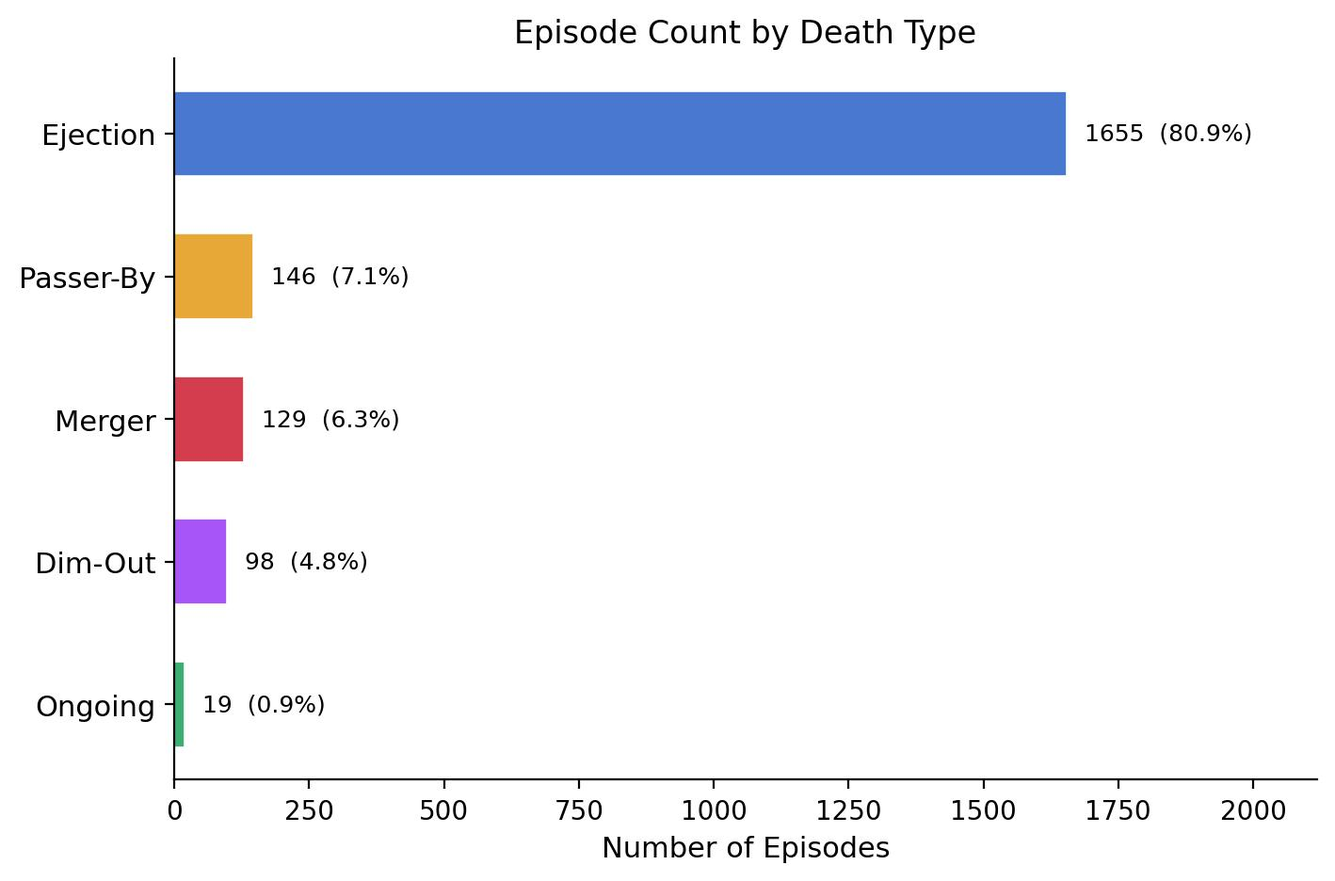
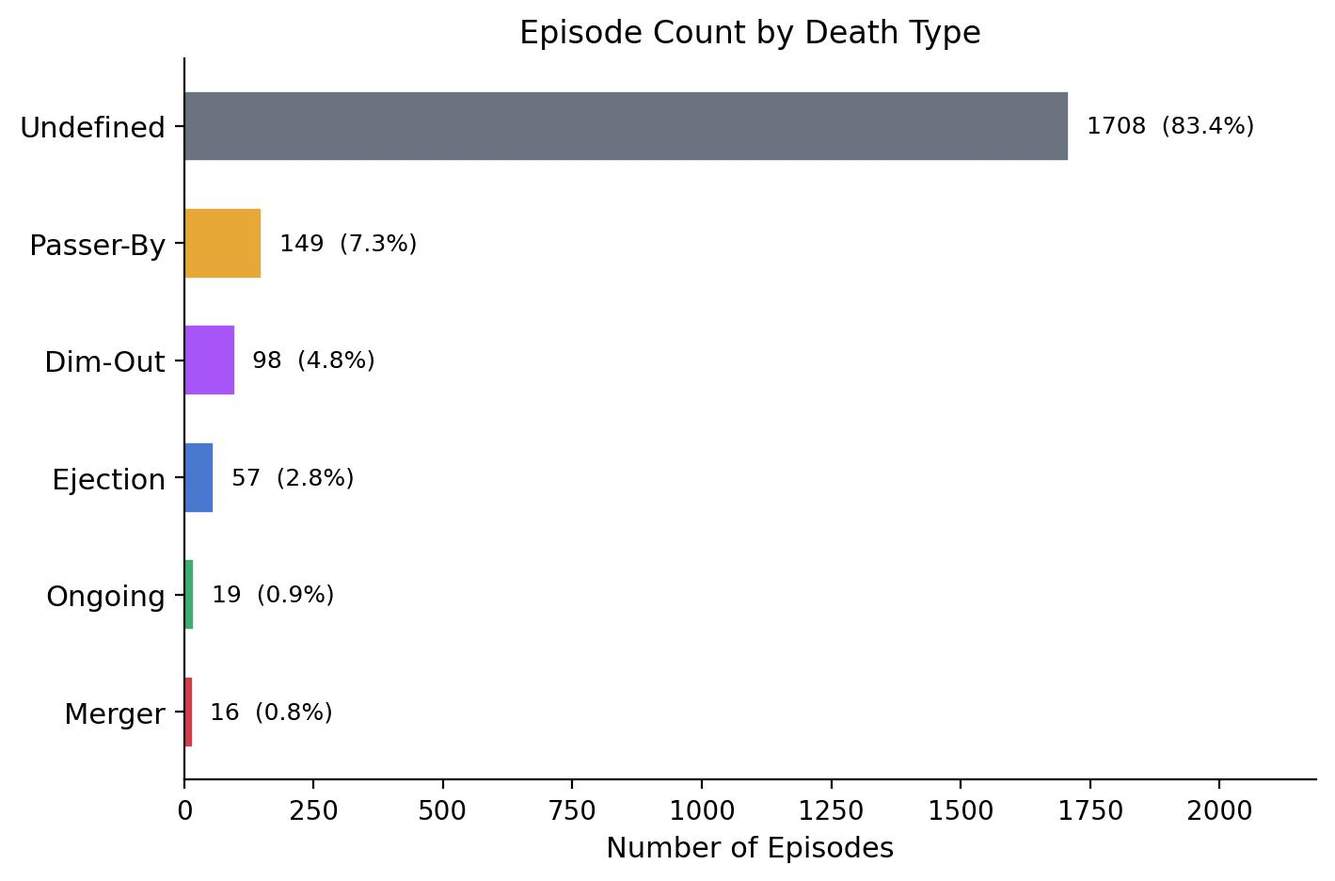
updates

diff --git a/main.tex b/main.tex
@@ -65,7 +65,7 @@ natbib=true
 \maketitle
 
 \begin{abstract}
-Hierarchical galaxy formation naturally predicts the existence of systems hosting multiple supermassive black holes (SMBHs), and when gas is available, such systems may manifest as multiple active galactic nuclei (AGN). While dual AGNs have been studied extensively in both observations and simulations, triple AGN systems remain relatively unexplored, despite their importance for further understanding things like SMBH dynamics and merger-driven accretion. Recent observational discoveries of nearby kpc-scale triple AGNs have highlighted the need for theoretical predictions that place these rare systems in a broader cosmological context. In this work, we investigate the properties of triple AGN systems in the Romulus25 cosmological hydrodynamical simulation. Romulus25 uniquely incorporates a physically motivated treatment of unresolved dynamical friction, enabling SMBHs to remain coupled to their host galaxies and to interact down to sub-kiloparsec scales. Building on previous analyses of dual AGNs in Romulus, we identify candidate triple AGN systems using AGN bolometric luminosity and spatial proximity criteria motivated by observations. We examine their redshift evolution, SMBH masses and luminosities, separations, host halos, lifetimes, and fates, test how the census depends on the luminosity threshold and search radius, and repeat the selection in projection with a cylinder of $30\,\mathrm{kpc}$ radius and $\pm 500\,\mathrm{km\,s^{-1}}$. Above $L_\mathrm{bol} = 10^{40}\,\mathrm{erg\,s^{-1}}$ we find 3,266 triple AGN system-snapshot instances from 1,397 unique systems between $z \approx 0.06$ and $z = 3$, with counts per snapshot rising by a factor of about three toward high redshift, driven mainly by the rising fraction of SMBHs that are accreting. Members typically lie $\sim 3\,\mathrm{kpc}$ apart, and the brightest member carries a median 88\% of the system luminosity. Most triple AGN episodes end because one member falls below the luminosity threshold while all three SMBHs remain together, usually through a drop to well below the threshold, so that only 5\% meet our Dim-Out criterion of a member falling just below it while the other two remain a dual AGN; only 6\% end in a merger and 3\% with a member leaving the $30\,\mathrm{kpc}$ neighbourhood. In projection, 82\% of selected triples are genuine three-dimensional triples and 89\% of genuine triples are recovered. Narrowing the velocity window increases contamination, whereas reducing the aperture radius to $20\,\mathrm{kpc}$ improves both purity and completeness. Radiative transfer of five simulated analogues of the triple merger candidate UGC\,2369S shows that dust absorbs between 24\% and 90\% of their starlight. By providing a systematic census of triple AGNs in a cosmological simulation, this study aims to establish a theoretical baseline for interpreting current observations and to guide future searches for multi-AGN systems.
+Hierarchical galaxy formation naturally predicts the existence of systems hosting multiple supermassive black holes (SMBHs), and when gas is available, such systems may manifest as multiple active galactic nuclei (AGN). While dual AGNs have been studied extensively in both observations and simulations, triple AGN systems remain relatively unexplored, despite their importance for further understanding things like SMBH dynamics and merger-driven accretion. Recent observational discoveries of nearby kpc-scale triple AGNs have highlighted the need for theoretical predictions that place these rare systems in a broader cosmological context. In this work, we investigate the properties of triple AGN systems in the Romulus25 cosmological hydrodynamical simulation. Romulus25 uniquely incorporates a physically motivated treatment of unresolved dynamical friction, enabling SMBHs to remain coupled to their host galaxies and to interact down to sub-kiloparsec scales. Building on previous analyses of dual AGNs in Romulus, we identify candidate triple AGN systems using AGN bolometric luminosity and spatial proximity criteria motivated by observations. We examine their redshift evolution, SMBH masses and luminosities, separations, host halos, lifetimes, and fates, test how the census depends on the luminosity threshold and search radius, and repeat the selection in projection with a cylinder of $30\,\mathrm{kpc}$ radius and $\pm 500\,\mathrm{km\,s^{-1}}$. Above $L_\mathrm{bol} = 10^{40}\,\mathrm{erg\,s^{-1}}$ we find 3,266 triple AGN system-snapshot instances from 1,397 unique systems between $z \approx 0.06$ and $z = 3$, with counts per snapshot rising by a factor of about three toward high redshift, driven mainly by the rising fraction of SMBHs that are accreting. Members typically lie $\sim 3\,\mathrm{kpc}$ apart, and the brightest member carries a median 88\% of the system luminosity. Most triple AGN episodes end because one member falls below the luminosity threshold while all three SMBHs remain together, usually through a drop to well below the threshold, so that only 5\% meet our Dim-Out criterion of a member falling just below it while the other two remain a dual AGN; fewer than 1\% end in a confirmed SMBH merger and 3\% in the ejection of a member from the $30\,\mathrm{kpc}$ neighbourhood. In projection, 82\% of selected triples are genuine three-dimensional triples and 89\% of genuine triples are recovered. Narrowing the velocity window increases contamination, whereas reducing the aperture radius to $20\,\mathrm{kpc}$ improves both purity and completeness. Radiative transfer of five simulated analogues of the triple merger candidate UGC\,2369S shows that dust absorbs between 24\% and 90\% of their starlight. By providing a systematic census of triple AGNs in a cosmological simulation, this study aims to establish a theoretical baseline for interpreting current observations and to guide future searches for multi-AGN systems.
 
 \end{abstract}
 \vspace{1em} 
@@ -142,7 +142,7 @@ In this paper, we present the first systematic census of triple AGN systems in t
 
 For each identified system we characterise the SMBH masses, bolometric luminosities, pairwise separations, host halo masses, and system lifetimes of all three members. We classify the Host (most massive), Neighbour~1 (N1), and Neighbour~2 (N2) by decreasing SMBH mass. We examine how these properties evolve with redshift and depend on the choice of luminosity threshold and separation cut.
 
-The key findings can be summarised as follows. Triple AGN systems are a natural and recurring product of hierarchical galaxy assembly in Romulus25, with their number density rising steadily from $z = 0$ to $z \approx 3$, mirroring the global rise in AGN activity. They are physically compact, with median pairwise separations of 2.9, 3.2, and 3.8\,kpc for the Host--N1, Host--N2, and N1--N2 pairs respectively, considerably more compact than the currently confirmed observational sample, implying a large population inaccessible to existing surveys. The SMBH mass distribution is asymmetric. The median Host is $\sim 3$ and $\sim 6$ times more massive than N1 and N2 respectively, a contrast that grows to one to two orders of magnitude in halos above $10^{12}\,M_\odot$, while N1 and N2 are drawn from a similar near-seed-mass population. This demonstrates that triple AGN formation does not require (and may in some cases \textit{precede}) significant growth of the secondary and tertiary SMBHs. The majority (61\%) of unique triple AGN systems are single-snapshot detections, reflecting the transient character of low-luminosity triple activity, while the multi-snapshot population has a median span of $1.44\,\mathrm{Gyr}$ from first to last detection and a long tail extending to $\sim 11\,\mathrm{Gyr}$, although these systems are typically detected as triples in only about a third of the snapshots they span. Most triple AGN episodes end when one member falls below the luminosity threshold while all three SMBHs remain within $30\,\mathrm{kpc}$, usually by a drop to well below it; a Dim-Out, in which a member falls to just below the threshold while the other two remain a dual AGN, ends 5\% of episodes, a merger 6\%, and the departure of a member only 3\%. In most systems a single nucleus dominates the light, carrying a median 88\% of the total. Selection in projection recovers 89\% of genuine triples with a purity of 82\%, and a $20\,\mathrm{kpc}$ aperture improves on both.
+The key findings can be summarised as follows. Triple AGN systems are a natural and recurring product of hierarchical galaxy assembly in Romulus25, with their number density rising steadily from $z = 0$ to $z \approx 3$, mirroring the global rise in AGN activity. They are physically compact, with median pairwise separations of 2.9, 3.2, and 3.8\,kpc for the Host--N1, Host--N2, and N1--N2 pairs respectively, considerably more compact than the currently confirmed observational sample, implying a large population inaccessible to existing surveys. The SMBH mass distribution is asymmetric. The median Host is $\sim 3$ and $\sim 6$ times more massive than N1 and N2 respectively, a contrast that grows to one to two orders of magnitude in halos above $10^{12}\,M_\odot$, while N1 and N2 are drawn from a similar near-seed-mass population. This demonstrates that triple AGN formation does not require (and may in some cases \textit{precede}) significant growth of the secondary and tertiary SMBHs. The majority (61\%) of unique triple AGN systems are single-snapshot detections, reflecting the transient character of low-luminosity triple activity, while the multi-snapshot population has a median span of $1.44\,\mathrm{Gyr}$ from first to last detection and a long tail extending to $\sim 11\,\mathrm{Gyr}$, although these systems are typically detected as triples in only about a third of the snapshots they span. Most triple AGN episodes end when one member falls below the luminosity threshold while all three SMBHs remain within $30\,\mathrm{kpc}$, usually by a drop to well below it; a Dim-Out, in which a member falls to just below the threshold while the other two remain a dual AGN, ends 5\% of episodes, a confirmed merger fewer than 1\%, and the ejection of a member only 3\%. In most systems a single nucleus dominates the light, carrying a median 88\% of the total. Selection in projection recovers 89\% of genuine triples with a purity of 82\%, and a $20\,\mathrm{kpc}$ aperture improves on both.
 
 The paper is organized as follows. Section~\ref{sec:methods} describes the Romulus25 simulation, our AGN selection criteria, the triple AGN identification algorithm, and the methodology used to compare the simulated population with observations. Section~\ref{sec:results} presents all results, including the redshift evolution of the triple AGN population (Sections~\ref{subsec:agn_population}--\ref{subsec:frequency}), pairwise separation distributions (Sections~\ref{subsec:separations}--\ref{subsec:sep_halo}), SMBH mass and luminosity properties (Sections~\ref{subsec:bhmass_halo}--\ref{subsec:ratios}), system lifetimes (Section~\ref{subsec:lifetimes}), a case study of one of the longest-lived systems in the simulation (Section~\ref{subsec:case_study}), system fates (Section~\ref{subsec:fates}), the luminosity-independent parent population (Section~\ref{subsec:parent_population}), the dominance of the brightest member (Section~\ref{subsec:brightest_share}), the selection of triple AGN in projection (Sections~\ref{subsec:projected_vs_physical}--\ref{subsec:selection_opt}), and dust attenuation in simulated analogues of UGC\,2369S (Section~\ref{subsec:dust}). Throughout, we adopt the Romulus25 cosmology: $\Omega_m = 0.309$, $\Omega_\Lambda = 0.691$, $H_0 = 67.8\,\mathrm{km\,s^{-1}\,Mpc^{-1}}$. All separations are quoted in physical kiloparsecs and all masses in solar units $M_\odot$.
 
@@ -653,14 +653,14 @@ These gas column density maps represent individual frames from longer time-serie
 \begin{figure}[H]
     \centering
     \includegraphics[width=\columnwidth]{plot_1.jpeg}
-    \caption{Terminal fate classification of all 2,047 triple AGN episodes, where an episode is a contiguous run of snapshots over which the same three SMBHs satisfy the triple AGN selection criteria, with gaps of two snapshots or fewer bridged. Fates are assigned at the first usable snapshot after the episode, in the order Ongoing (the episode reaches the final catalogued snapshot), Merger (one member has coalesced with another SMBH), Dim-Out (two members remain a dual AGN while the third has dropped to just below the threshold, $10^{39.7} \leq L_\mathrm{bol} < 10^{40}\,\mathrm{erg\,s^{-1}}$), Passer-By (the same two SMBHs are a dual AGN immediately before and after the episode), and Ejection (all remaining episodes). Ejection accounts for 80.9\% of episodes, Passer-By for 7.1\%, Merger for 6.3\%, Dim-Out for 4.8\%, and Ongoing for 0.9\%.}
+    \caption{Terminal fate classification of all 2,047 triple AGN episodes, where an episode is a contiguous run of snapshots over which the same three SMBHs satisfy the triple AGN selection criteria, with gaps of two snapshots or fewer bridged. Fates are assigned at the first usable snapshot after the episode, in the order Ongoing (the episode reaches the final catalogued snapshot), Merger (a member has vanished, having been within $0.7\,\mathrm{kpc}$ of another member), Dim-Out (two members remain a dual AGN while the third has dropped to just below the threshold, $10^{39.7} \leq L_\mathrm{bol} < 10^{40}\,\mathrm{erg\,s^{-1}}$), Passer-By (the same two SMBHs are a dual AGN immediately before and after the episode), Ejection (all three SMBHs still exist but a member has left the $30\,\mathrm{kpc}$ configuration), and Undefined (all remaining episodes). Undefined accounts for 83.4\% of episodes, Passer-By for 7.3\%, Dim-Out for 4.8\%, Ejection for 2.8\%, Ongoing for 0.9\%, and Merger for 0.8\%.}
     \label{fig:fates}
 \end{figure}
 
 \begin{figure*}
     \centering
     \includegraphics[width=\textwidth]{plot_rs.jpeg}
-    \caption{Redshift evolution of triple AGN episode fates. \textit{Left:} Number of episodes in each of ten redshift bins spanning $z = 0$ to $z = 3$, stacked and coloured by terminal fate as classified in Section~\ref{subsec:fates}. \textit{Right:} The same data as the fraction of episodes in each bin. Ejection dominates at all redshifts (70--88\%). Passer-By (3--11\%), Merger (5--10\%), and Dim-Out (2--8\%) show no clear redshift trend. The rise in the Ongoing fraction in the lowest-redshift bin is an artefact of the catalogue ending at $z \approx 0.06$.}
+    \caption{Redshift evolution of triple AGN episode fates. \textit{Left:} Number of episodes in each of ten redshift bins spanning $z = 0$ to $z = 3$, stacked and coloured by terminal fate as classified in Section~\ref{subsec:fates}. \textit{Right:} The same data as the fraction of episodes in each bin. Undefined dominates at all redshifts (76--92\%). Passer-By (3--12\%), Dim-Out (2--8\%), Ejection (1--5\%), and Merger (0--3\%) show no clear redshift trend. The rise in the Ongoing fraction in the lowest-redshift bin is an artefact of the catalogue ending at $z \approx 0.06$.}
     \label{fig:fates_z}
 \end{figure*}
 
@@ -668,51 +668,51 @@ The lifetime analysis presented in Section~\ref{subsec:lifetimes} characterised 
 
 Because a single physical configuration of three SMBHs may cease to qualify and later qualify again, the total number of episodes (2,047) exceeds the number of unique triple AGN systems identified in Section~\ref{subsec:lifetimes} (1,397). The difference of 650 episodes represents re-entry events in which the same three SMBHs failed the triple AGN selection criteria for at least three consecutive snapshots before qualifying again. Each episode carries its own terminal fate and is classified independently.
 
-For each episode we determine its terminal fate at the first usable snapshot following its final detection, applying the following classification in priority order.
+For each episode we determine its terminal fate at the first usable snapshot following its final detection, applying the following classification in priority order. Luminosities are taken from an AGN catalogue with a floor of $10^{39.7}\,\mathrm{erg\,s^{-1}}$, or computed from the accretion rate in the \textsc{Tangos} database with the same floor where that catalogue is unavailable. Three-dimensional separations are taken from the projected master catalogues of Section~\ref{subsec:projected_selection}, pooled over the three viewing axes.
 \begin{enumerate}
     \item \textbf{Ongoing:} the episode is still active at the final catalogued snapshot, so that its fate lies beyond the redshift range probed by this study.
-    \item \textbf{Merger:} one of the three SMBHs is absent from the black hole catalogue at the following snapshot, indicating that it has coalesced with another black hole. In all 129 such episodes the missing SMBH never reappears in any later snapshot.
-    \item \textbf{Dim-Out:} a member drops just below the detection threshold while the other two remain an active pair. Two conditions must both hold at the following snapshot. First, two of the three SMBHs form a dual AGN in the dual catalogue of Section~\ref{subsec:derived}, that is, they are linked within $30\,\mathrm{kpc}$ with no further AGN attached. Second, the third SMBH is still accreting but below the triple threshold, with $10^{39.7} \leq L_\mathrm{bol} < 10^{40}\,\mathrm{erg\,s^{-1}}$. Luminosities are taken from an AGN catalogue with a floor of $10^{39.7}\,\mathrm{erg\,s^{-1}}$, or computed from the accretion rate in the \textsc{Tangos} database with the same floor where that catalogue is unavailable.
+    \item \textbf{Merger:} one of the three SMBHs is absent from the black hole catalogue at the following snapshot, and at the final snapshot of the episode it lay within $0.7\,\mathrm{kpc}$ of another member, the separation below which Romulus25 merges SMBHs (Section~\ref{subsubsec:dynamics}). In Romulus25 a merged SMBH disappears permanently, and none of the vanished SMBHs reappears in any later snapshot.
+    \item \textbf{Dim-Out:} a member drops just below the detection threshold while the other two remain an active pair. Two conditions must both hold at the following snapshot. First, two of the three SMBHs form a dual AGN in the dual catalogue of Section~\ref{subsec:derived}, that is, they are linked within $30\,\mathrm{kpc}$ with no further AGN attached. Second, the third SMBH is still accreting but below the triple threshold, with $10^{39.7} \leq L_\mathrm{bol} < 10^{40}\,\mathrm{erg\,s^{-1}}$.
     \item \textbf{Passer-By:} the same two SMBHs were an active dual AGN in the snapshot immediately preceding the episode and remain an active dual in the snapshot immediately following it, so that the dual outlasted the triple.
-    \item \textbf{Ejection:} all remaining episodes, in which all three SMBHs survive but none of the above conditions is met.
+    \item \textbf{Ejection:} all three SMBHs still exist at the following snapshot, but a member has left the system: no member lies within $30\,\mathrm{kpc}$ of both others, so the configuration required by the triple selection is broken.
+    \item \textbf{Undefined:} all remaining episodes.
 \end{enumerate}
 A residual Unknown category is reserved for cases in which the black hole catalogue for the following snapshot is unavailable; no episodes in our census fell into this category.
 
-Figure~\ref{fig:fates} shows the resulting distribution of terminal fates. Ejection is the most common, ending 1,655 of the 2,047 episodes (80.9\%). Passer-By and Merger episodes account for 146 (7.1\%) and 129 (6.3\%), Dim-Out for 98 (4.8\%), occurring at least once in 93 of the 1,397 unique systems (6.7\%), and 19 episodes (0.9\%) are Ongoing. The median luminosity of the dimmed member at the following snapshot is $7.3 \times 10^{39}\,\mathrm{erg\,s^{-1}}$. The member that dims out is almost always one of the companions (Figure~\ref{fig:merger_roles}): Neighbour~2 in 65 episodes (66\%), Neighbour~1 in 31 (32\%), and the Host in only 2.
+Figure~\ref{fig:fates} shows the resulting distribution of terminal fates. Undefined is by far the most common, ending 1,708 of the 2,047 episodes (83.4\%). Passer-By accounts for 149 episodes (7.3\%), Dim-Out for 98 (4.8\%), occurring at least once in 93 of the 1,397 unique systems, and Ejection for 57 (2.8\%). The rarest fates are Ongoing, with 19 episodes (0.9\%), and Merger, with 16 (0.8\%). In 53 of the 57 Ejections, two members remain within $30\,\mathrm{kpc}$ of each other while the third has left, and in the remaining 4 all three members have separated. The median luminosity of the dimmed member in Dim-Out episodes is $7.3 \times 10^{39}\,\mathrm{erg\,s^{-1}}$, and the member that dims out is almost always one of the companions (Figure~\ref{fig:merger_roles}): Neighbour~2 in 65 episodes (66\%), Neighbour~1 in 31 (32\%), and the Host in only 2.
 
-Despite its name, the Ejection class rarely involves a member leaving the system. Table~\ref{tab:end_states} divides it according to the state of the three SMBHs at the following snapshot, using their luminosities and their three-dimensional separations from the projected master catalogues of Section~\ref{subsec:projected_selection}, pooled over the three viewing axes. In 1,208 of the 1,655 Ejection episodes (73\%), the three SMBHs are still together but at least one member has fallen below the threshold. These do not meet the Dim-Out criteria, in most cases because the member has dropped below $10^{39.7}\,\mathrm{erg\,s^{-1}}$ rather than to just below the threshold; a typical member that switches off falls by two orders of magnitude between snapshots. In a further 384 episodes (23\%), all three members remain above the threshold and in the same configuration, but an additional AGN lies within $30\,\mathrm{kpc}$ of at least one member, so that the system no longer has exactly two AGN neighbours. Only 57 episodes (3\%) end with a member beyond $30\,\mathrm{kpc}$, the case the label was intended to describe. Similarly, 138 of the 146 Passer-By episodes end with the third member below the threshold rather than departed. Over all episodes, a member falls below the threshold while the SMBHs remain together in 1,444 cases (70.5\%), of which 98 meet the Dim-Out criteria, whereas the departure of a member accounts for only 65 (3.2\%). We retain the Ejection label for continuity. The state is measured only at the following snapshot, a median of 143\,Myr later, so excursions between snapshots are not captured.
+Table~\ref{tab:end_states} divides the Undefined class according to the state of the three SMBHs at the following snapshot. In 1,208 of the 1,708 Undefined episodes (71\%), the three SMBHs are still together but at least one member has fallen below the threshold without meeting the Dim-Out criteria, in most cases because it has dropped below $10^{39.7}\,\mathrm{erg\,s^{-1}}$ rather than to just below the threshold; a typical member that switches off falls by two orders of magnitude between snapshots. In a further 384 episodes (22\%), all three members remain above the threshold and in the same configuration, but an additional AGN lies within $30\,\mathrm{kpc}$ of at least one member, so that the system no longer has exactly two AGN neighbours. In 110 episodes (6\%), one member has vanished from the black hole catalogue, but it lay more than $0.7\,\mathrm{kpc}$ from the other members at the final snapshot of the episode. These SMBHs have merged with some black hole between snapshots, but the merger with another member of the triple cannot be confirmed. At the final snapshot they lie a median of $1.4\,\mathrm{kpc}$ from the nearest member, with 76\% within $2\,\mathrm{kpc}$, so many are likely to have merged with a member of the triple within the $\sim 143\,\mathrm{Myr}$ before the following snapshot. The six remaining episodes cannot be measured. Over all episodes, a member falls below the threshold while the SMBHs remain together in 1,444 cases (70.5\%), including 98 Dim-Outs and 138 Passer-By episodes, whereas the departure of a member accounts for only 65 (3.2\%), the 57 Ejections and 8 Passer-By episodes. The state is measured only at the following snapshot, a median of 143\,Myr later, so excursions between snapshots are not captured.
 
 \begin{table}
     \centering
-    \caption{Terminal fates of the 2,047 triple AGN episodes, with the Ejection class divided by the state of the three SMBHs at the following snapshot.}
+    \caption{Terminal fates of the 2,047 triple AGN episodes, with the Undefined class divided by the state of the three SMBHs at the following snapshot.}
     \label{tab:end_states}
     \begin{tabular}{lrr}
         \hline
         Fate & $N$ & \% \\
         \hline
-        Ejection & 1,655 & 80.9 \\
+        Undefined & 1,708 & 83.4 \\
         \quad member below threshold, not Dim-Out & 1,208 & 59.0 \\
         \quad further AGN within $30\,\mathrm{kpc}$ & 384 & 18.8 \\
-        \quad member beyond $30\,\mathrm{kpc}$ & 57 & 2.8 \\
+        \quad member vanished beyond $0.7\,\mathrm{kpc}$ & 110 & 5.4 \\
         \quad not measurable & 6 & 0.3 \\
-        Passer-By & 146 & 7.1 \\
-        Merger & 129 & 6.3 \\
+        Passer-By & 149 & 7.3 \\
         Dim-Out & 98 & 4.8 \\
+        Ejection & 57 & 2.8 \\
         Ongoing & 19 & 0.9 \\
+        Merger & 16 & 0.8 \\
         \hline
     \end{tabular}
 \end{table}
 
-Direct SMBH--SMBH mergers end 6.3\% of episodes. This fraction is not directly comparable to the $\sim 70\%$ of SMBH pairs in dual systems found to eventually merge by \citet{Saeedzadeh2024}. Our figure counts mergers at the snapshot immediately following an episode at a threshold of $10^{40}\,\mathrm{erg\,s^{-1}}$, whereas theirs follows pairs at $10^{43}\,\mathrm{erg\,s^{-1}}$ through to coalescence. Since most episodes end with all three SMBHs still in close proximity, the low merger fraction indicates that episodes usually end before any coalescence, and following the SMBHs beyond the end of each episode would be required to determine how many eventually merge. We also note that Romulus25 merges SMBHs at separations of $0.7\,\mathrm{kpc}$, so these simulations cannot address the three-body hardening of bound binaries at parsec scales discussed in Section~\ref{subsec:triple_theory}.
+Confirmed SMBH--SMBH mergers end only 0.8\% of episodes, and even counting all 113 SMBHs that vanished while lying further from the other members (110 Undefined and 3 Passer-By episodes), mergers would end 6.3\% of episodes. These fractions are not directly comparable to the $\sim 70\%$ of SMBH pairs in dual systems found to eventually merge by \citet{Saeedzadeh2024}. Our figures count mergers at the snapshot immediately following an episode at a threshold of $10^{40}\,\mathrm{erg\,s^{-1}}$, whereas theirs follows pairs at $10^{43}\,\mathrm{erg\,s^{-1}}$ through to coalescence. Since most episodes end with all three SMBHs still in close proximity, the low merger fraction indicates that episodes usually end before any coalescence, and following the SMBHs beyond the end of each episode would be required to determine how many eventually merge. We also note that Romulus25 merges SMBHs at separations of $0.7\,\mathrm{kpc}$, so these simulations cannot address the three-body hardening of bound binaries at parsec scales discussed in Section~\ref{subsec:triple_theory}. Among the 16 Merger episodes, the SMBH that disappears is the Host in 3, Neighbour~1 in 6, and Neighbour~2 in 7 (Figure~\ref{fig:merger_roles}, left), too few to establish which member is preferentially absorbed.
 
-Among the 129 Merger episodes, the SMBH that disappears is most often Neighbour~1 (59), followed by Neighbour~2 (42) and the Host (28), as shown in the left panel of Figure~\ref{fig:merger_roles}. The Host, which sits deepest in the potential and is the most massive member, is the least likely to be the black hole that is absorbed, consistent with mergers typically consuming one of the two companions into the dominant SMBH. Neighbour~1 is lost more often than Neighbour~2, which may reflect its shorter separation from the Host (Section~\ref{subsec:separations}).
-
-Figure~\ref{fig:fates_z} examines whether the terminal fate of a triple AGN episode depends on redshift. The left panel shows the number of episodes of each fate in ten redshift bins spanning $z = 0$ to $z = 3$, while the right panel shows the same information as the fraction of episodes within each bin. Ejection is the dominant fate at every redshift, accounting for 70--88\% of episodes. The Passer-By fraction lies between 3\% and 11\%, and the Dim-Out fraction between 2\% and 8\%, neither with a clear redshift trend. The Merger fraction likewise remains at 5--10\% in every bin, so direct coalescence within a triple episode is a minor but persistent channel at all epochs probed. The Ongoing fraction is negligible across most of the redshift range but reaches 9\% in the lowest-redshift bin. This is an artefact of the catalogue ending at $z \approx 0.06$: episodes in this bin have the least opportunity to be followed to a terminal fate, and their prevalence should not be interpreted as evidence that low-redshift triple AGN are intrinsically more stable.
+Figure~\ref{fig:fates_z} examines whether the terminal fate of a triple AGN episode depends on redshift. The left panel shows the number of episodes of each fate in ten redshift bins spanning $z = 0$ to $z = 3$, while the right panel shows the same information as the fraction of episodes within each bin. Undefined is the dominant fate at every redshift, accounting for 76--92\% of episodes. The Passer-By fraction lies between 3\% and 12\%, the Dim-Out fraction between 2\% and 8\%, the Ejection fraction between 1\% and 5\%, and the Merger fraction below 3\% in every bin, none with a clear redshift trend. The Ongoing fraction is negligible across most of the redshift range but reaches 9\% in the lowest-redshift bin. This is an artefact of the catalogue ending at $z \approx 0.06$: episodes in this bin have the least opportunity to be followed to a terminal fate, and their prevalence should not be interpreted as evidence that low-redshift triple AGN are intrinsically more stable.
 
 \begin{figure*}
     \centering
     \includegraphics[width=0.85\textwidth]{plot12.jpeg}
-    \caption{Membership role of the SMBH responsible for ending the episode. \textit{Left:} The SMBH that disappears in each Merger episode ($N = 129$): Host (28), Neighbour~1 (59), and Neighbour~2 (42). \textit{Right:} The member that dims out in each Dim-Out episode ($N = 98$): Host (2), Neighbour~1 (31), and Neighbour~2 (65). Roles are those at the final snapshot of the episode.}
+    \caption{Membership role of the SMBH responsible for ending the episode. \textit{Left:} The SMBH that disappears in each Merger episode ($N = 16$): Host (3), Neighbour~1 (6), and Neighbour~2 (7). \textit{Right:} The member that dims out in each Dim-Out episode ($N = 98$): Host (2), Neighbour~1 (31), and Neighbour~2 (65). Roles are those at the final snapshot of the episode.}
     \label{fig:merger_roles}
 \end{figure*}
 
@@ -1046,9 +1046,9 @@ one member below the luminosity threshold while the three SMBHs remain
 together, and 19\% end when a further AGN joins the system. Only 5\%
 are Dim-Outs, in which a member falls to just below the threshold
 while the other two remain a dual AGN; most members that switch off
-drop to well below the threshold. Only 6\%
-end in a SMBH merger, and only 3\% with a member leaving the
-$30\,\mathrm{kpc}$ neighbourhood. The end of a triple AGN episode
+drop to well below the threshold. Fewer than 1\%
+end in a confirmed SMBH merger, and only 3\% with a member ejected
+from the $30\,\mathrm{kpc}$ neighbourhood. The end of a triple AGN episode
 therefore usually reflects a change in the accretion state of its
 members rather than a dynamical event.
 
